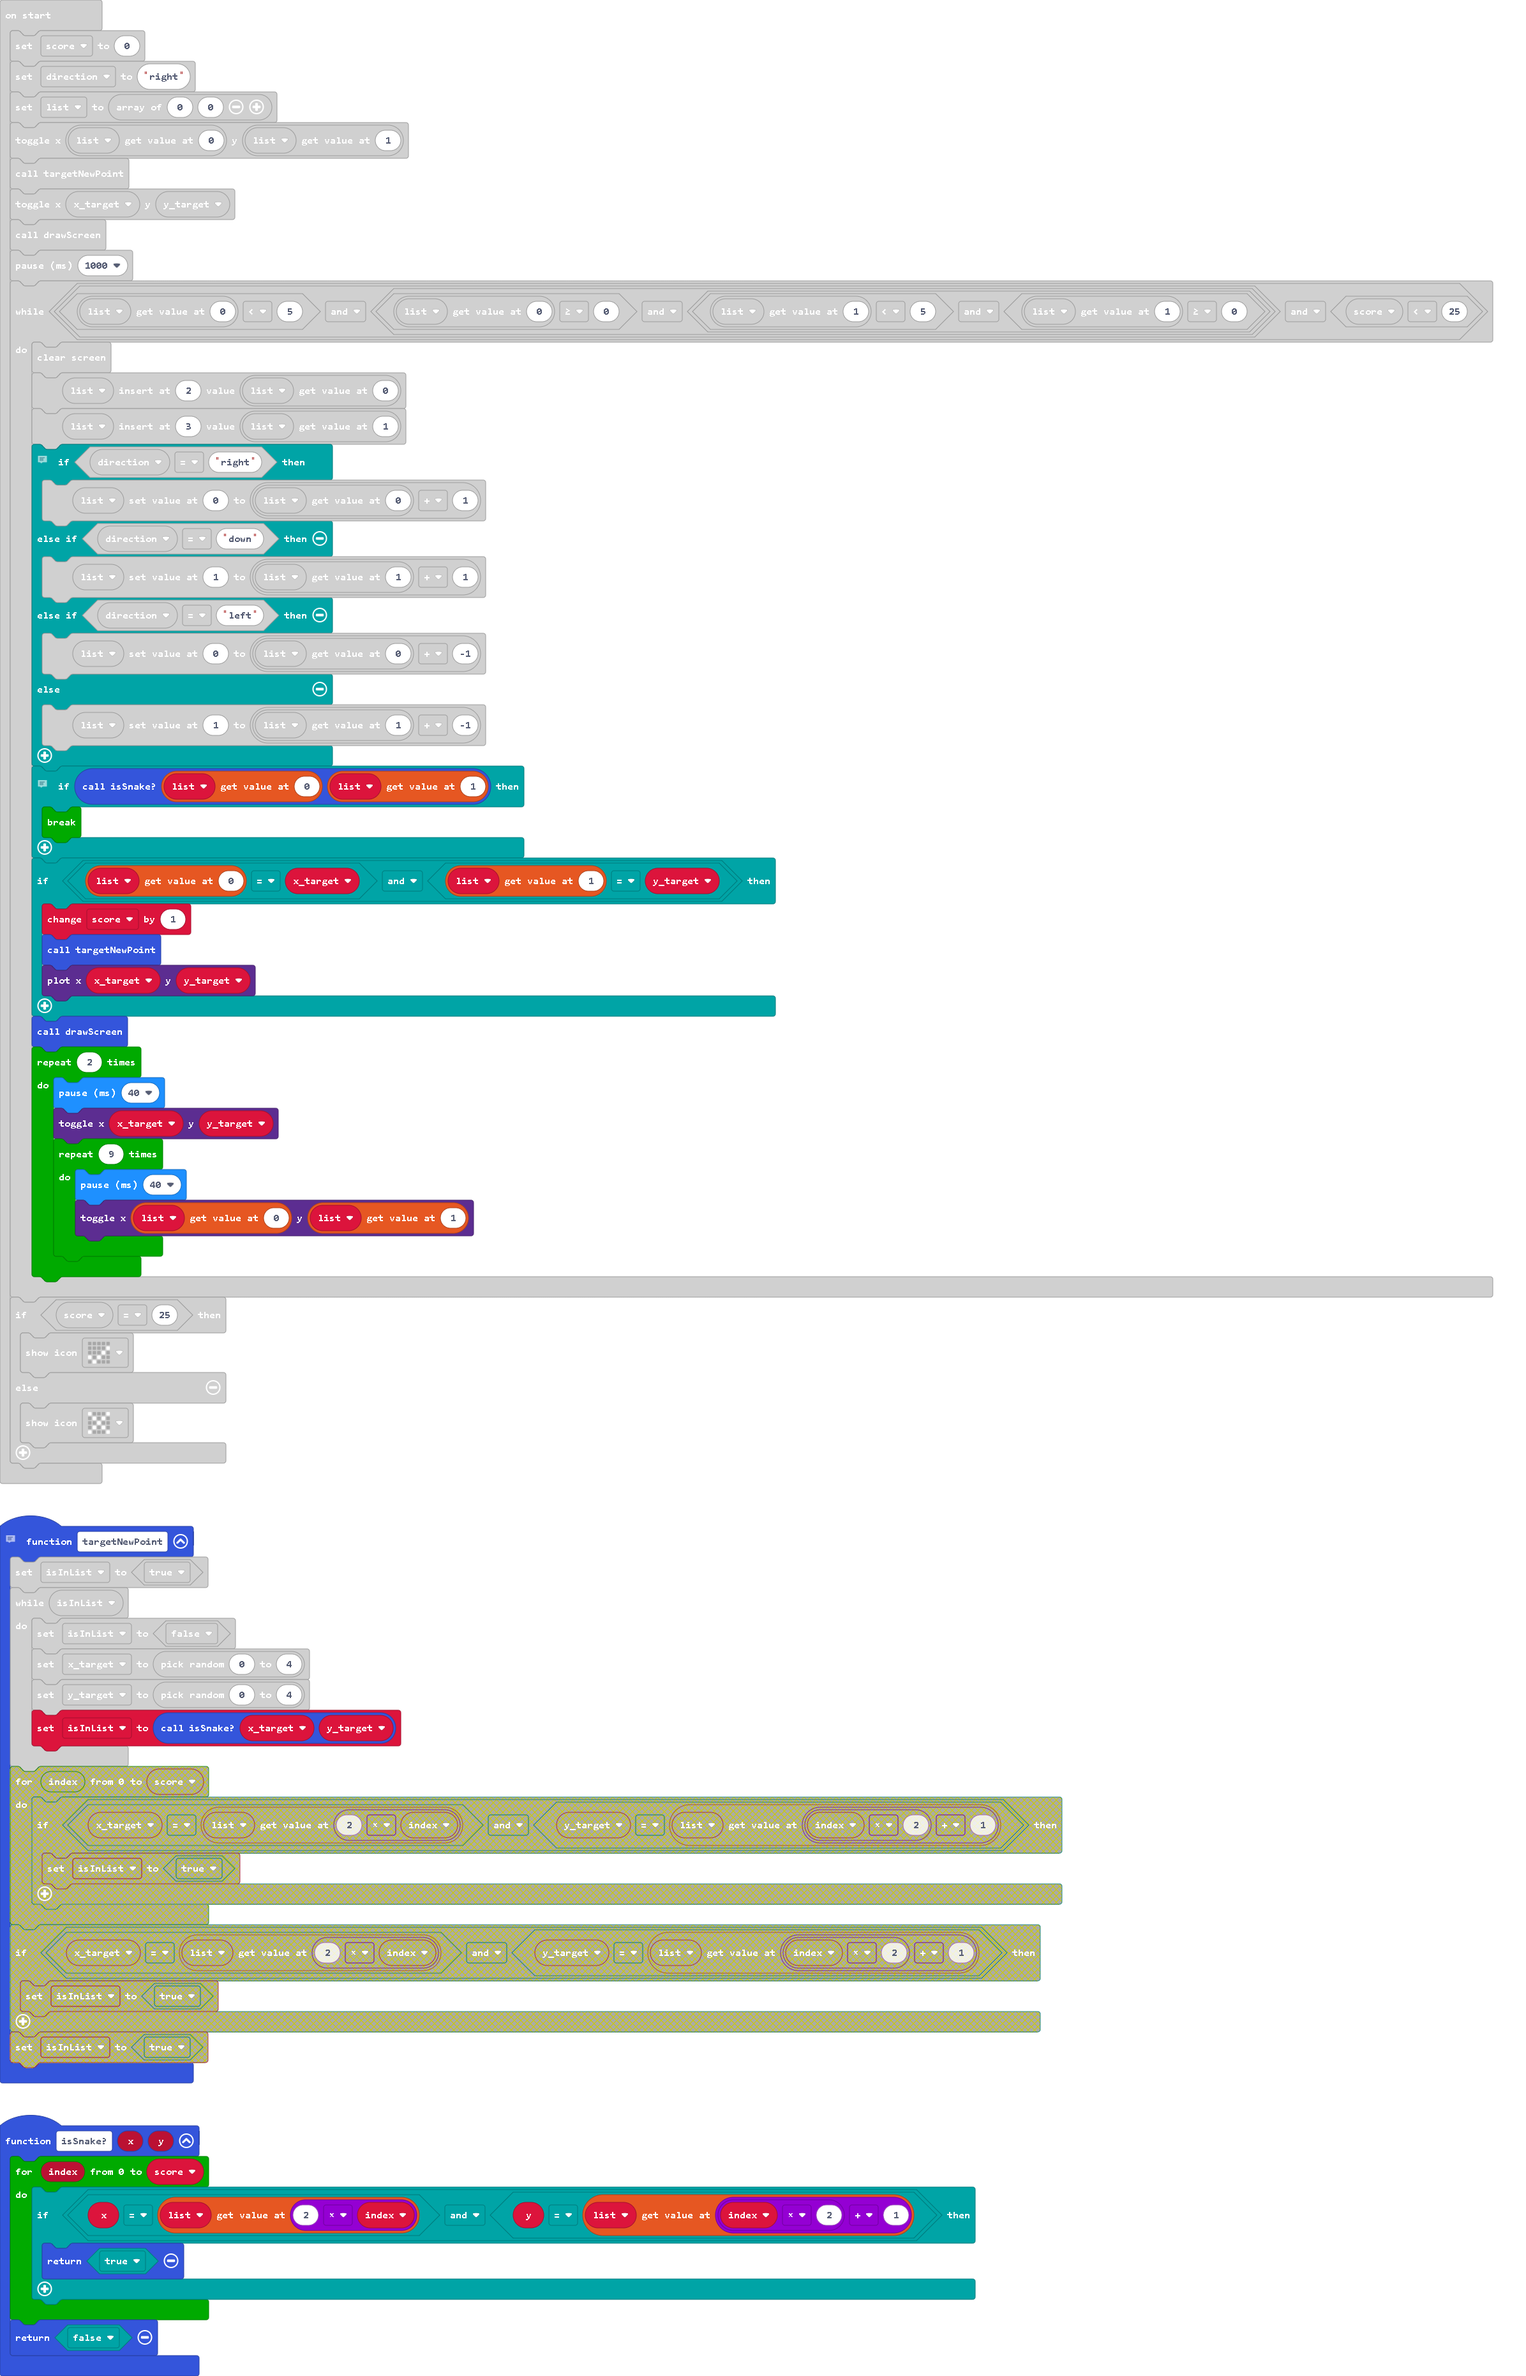
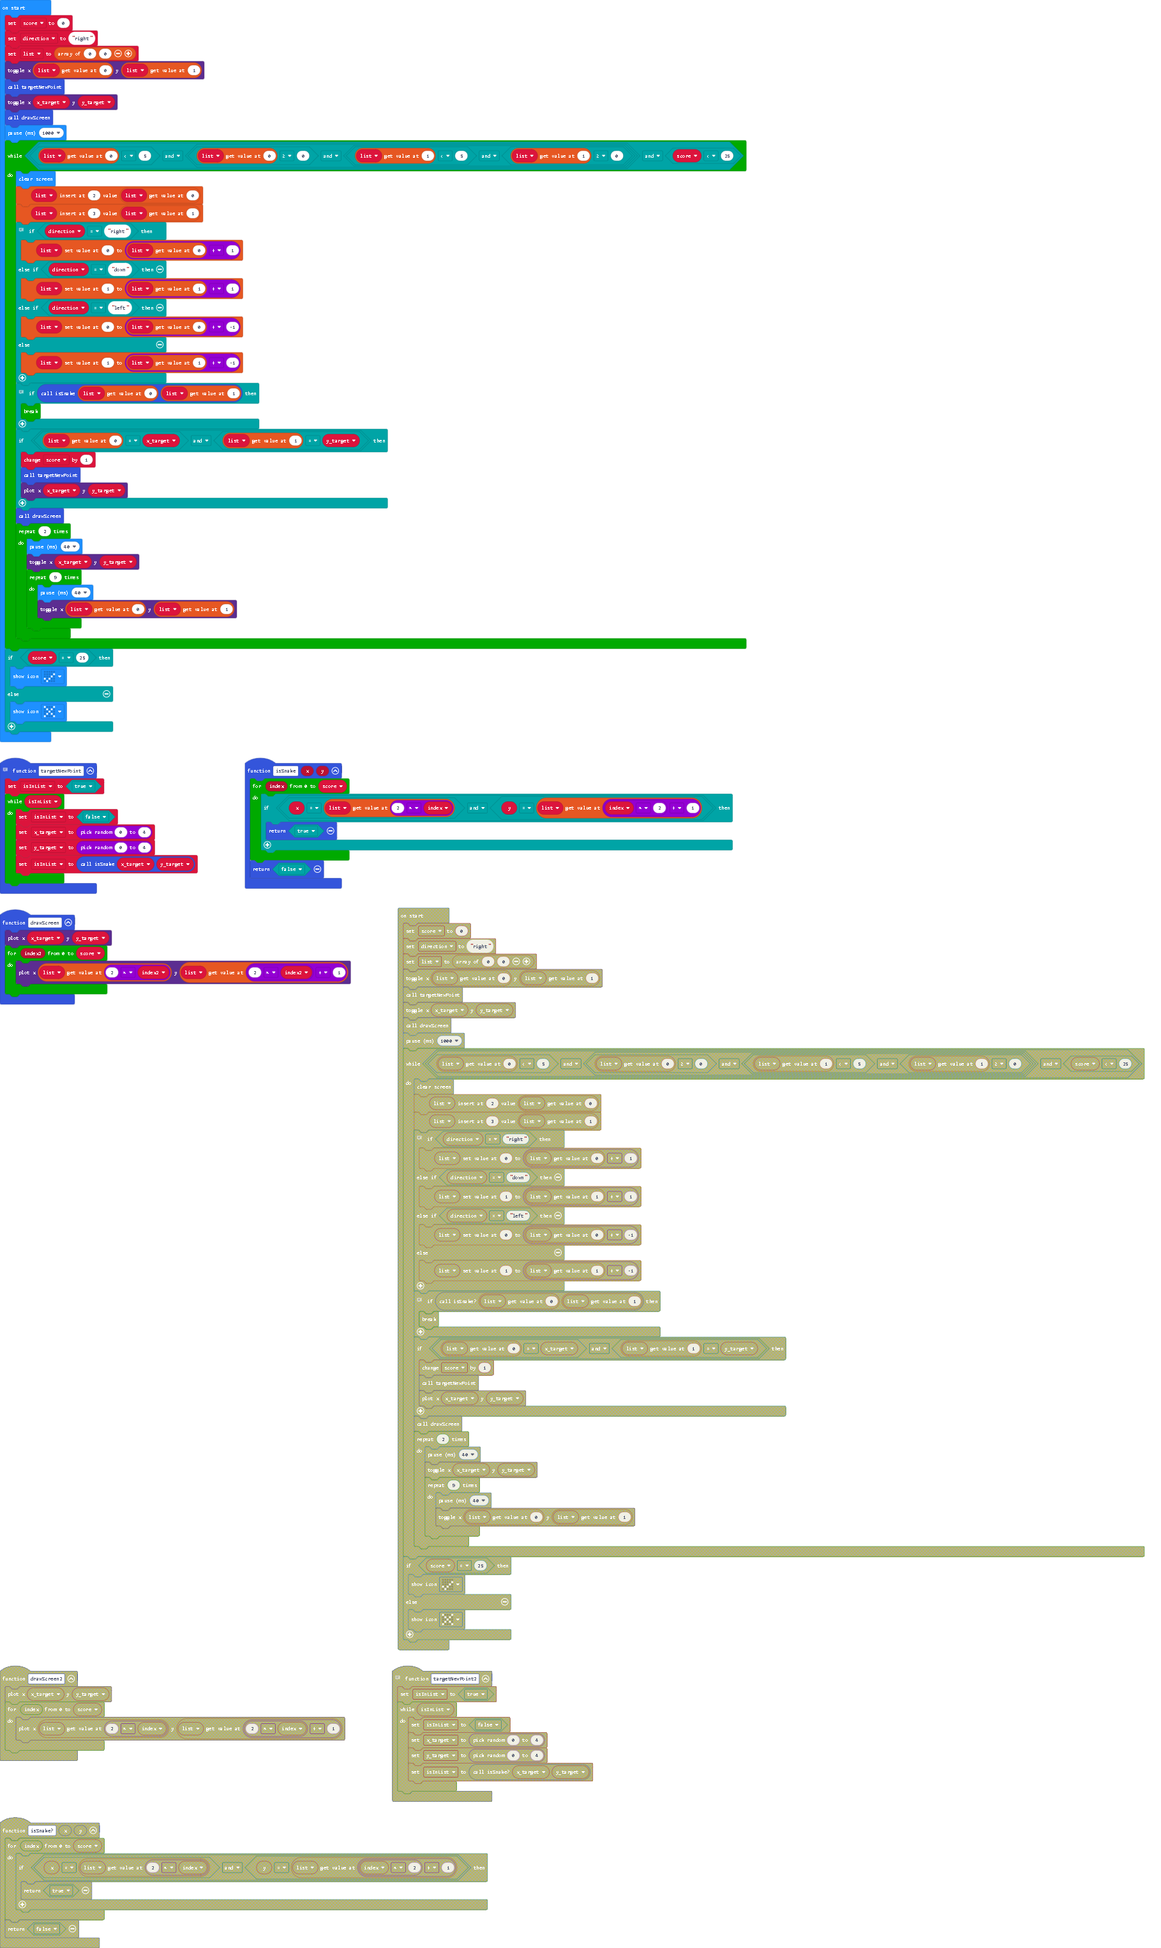
need to fix head location problem

diff --git a/main.ts b/main.ts
@@ -17,9 +17,6 @@ input.onButtonPressed(Button.AB, function () {
 input.onButtonPressed(Button.B, function () {
     direction = "right"
 })
-input.onLogoEvent(TouchButtonEvent.Pressed, function () {
-    direction = "up"
-})
 function isSnake (x: number, y: number) {
     for (let index = 0; index <= score; index++) {
         if (x == list[2 * index] && y == list[index * 2 + 1]) {
@@ -28,10 +25,13 @@ function isSnake (x: number, y: number) {
     }
     return false
 }
+input.onLogoEvent(TouchButtonEvent.Pressed, function () {
+    direction = "up"
+})
 function drawScreen () {
     led.plot(x_target, y_target)
-    for (let index = 0; index <= score; index++) {
-        led.plot(list[2 * index], list[2 * index + 1])
+    for (let index2 = 0; index2 <= score; index2++) {
+        led.plot(list[2 * index2], list[2 * index2 + 1])
     }
 }
 let isInList = false
@@ -53,7 +53,6 @@ while (list[0] < 5 && (list[0] >= 0 && (list[1] < 5 && list[1] >= 0)) && score <
     list.insertAt(2, list[0])
     list.insertAt(3, list[1])
     // movement if statements
-    // 
     if (direction == "right") {
         list[0] = list[0] + 1
     } else if (direction == "down") {
